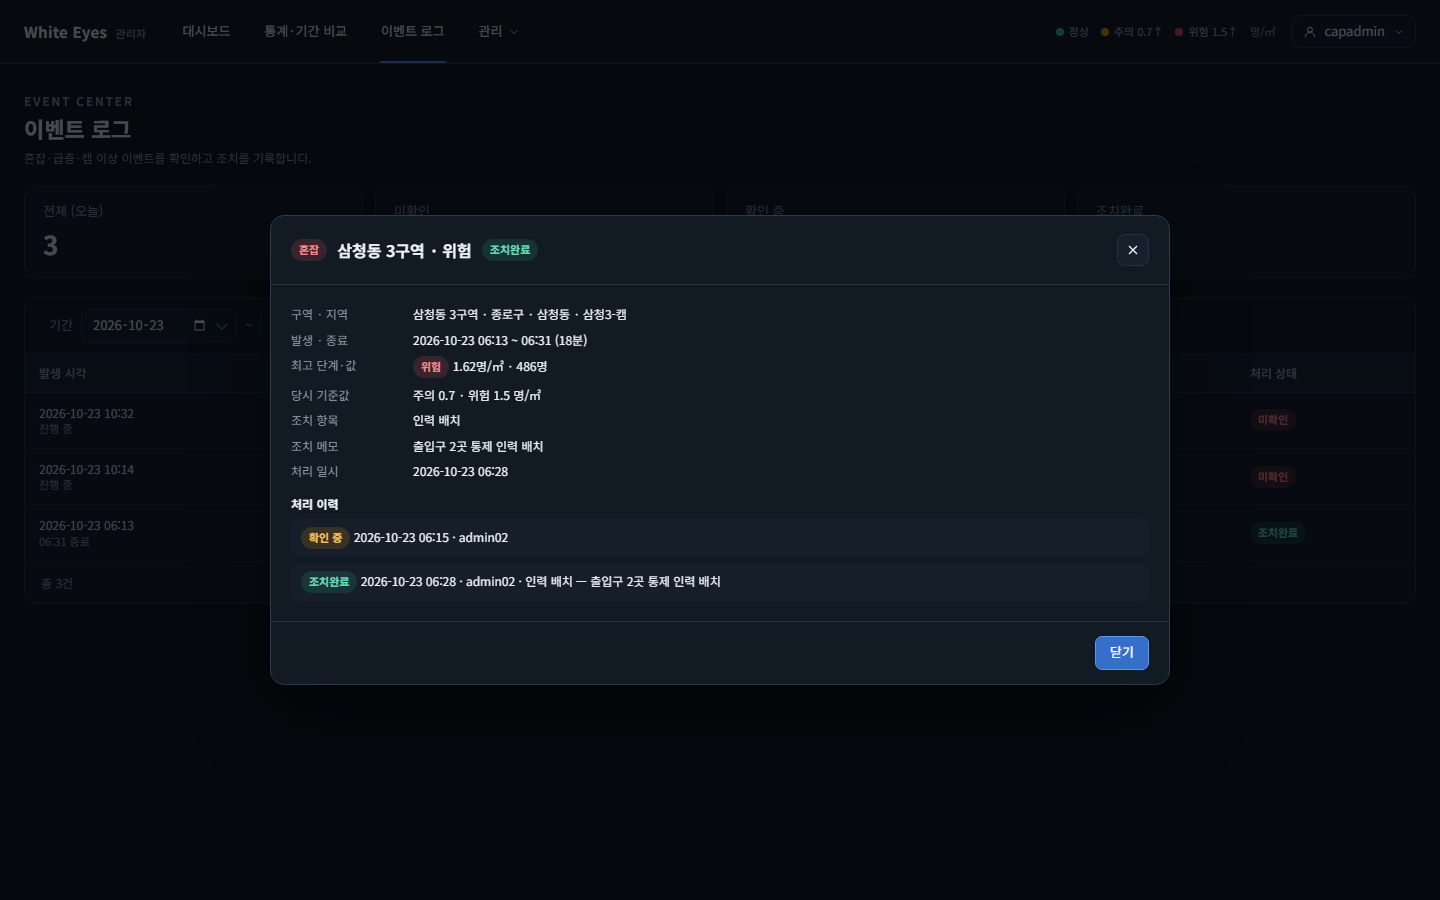
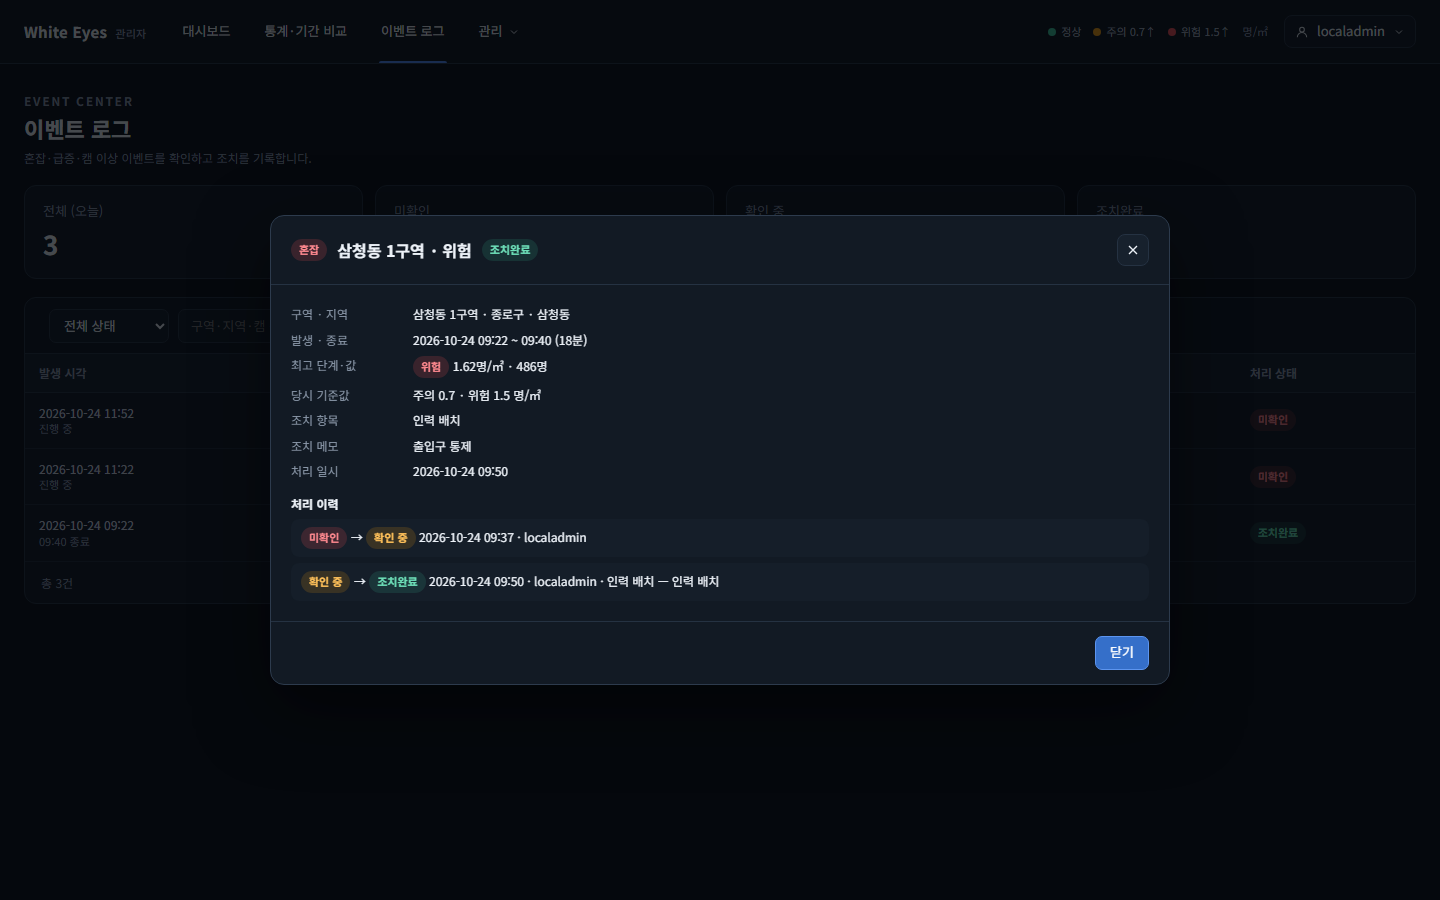
docs: 이벤트 상세 캡처를 캠 이름 null·이전→이후 상태 반영으로 다시 촬영 (#41)

diff --git a/test-reports/2026-10-23-stage2-event-detail/README.md b/test-reports/2026-10-23-stage2-event-detail/README.md
@@ -18,6 +18,8 @@ spring #41(FNC-A-037 이벤트 상세)을 실제 브라우저(Playwright Chromiu
 - 시각은 공통 형식 `yyyy-MM-dd HH:mm`(시안은 시:분). 같은 날 끝나면 종료는 시각만 쓴다.
 - 이벤트 정보 칸을 시안(발생·종료, 최고 단계·값, 당시 기준값)에 더해 구역·지역(구·동·캠), 처리 정보(조치 항목·메모·처리 일시: evt-003)를 보인다.
 - 캠 이상의 최고 단계·값은 `-`(screens.md SCR-A-010과 같게).
+- 혼잡·급증 이벤트는 캠 이름을 보이지 않는다(spring #166 리뷰 반영: `cameraName`은 캠 이상만 값이 있다). 캡처 01·02를 이에 맞춰 다시 찍었다.
+- 처리 이력 한 줄은 `이전 상태 → 이후 상태` 칩을 먼저 보인다(screens.md SCR-A-011, 리뷰 반영).
 - 처리 이력은 이력이 없으면 '처리 이력이 없습니다'를 보인다(시안에 없는 상태).
 
 **확인 필요**
